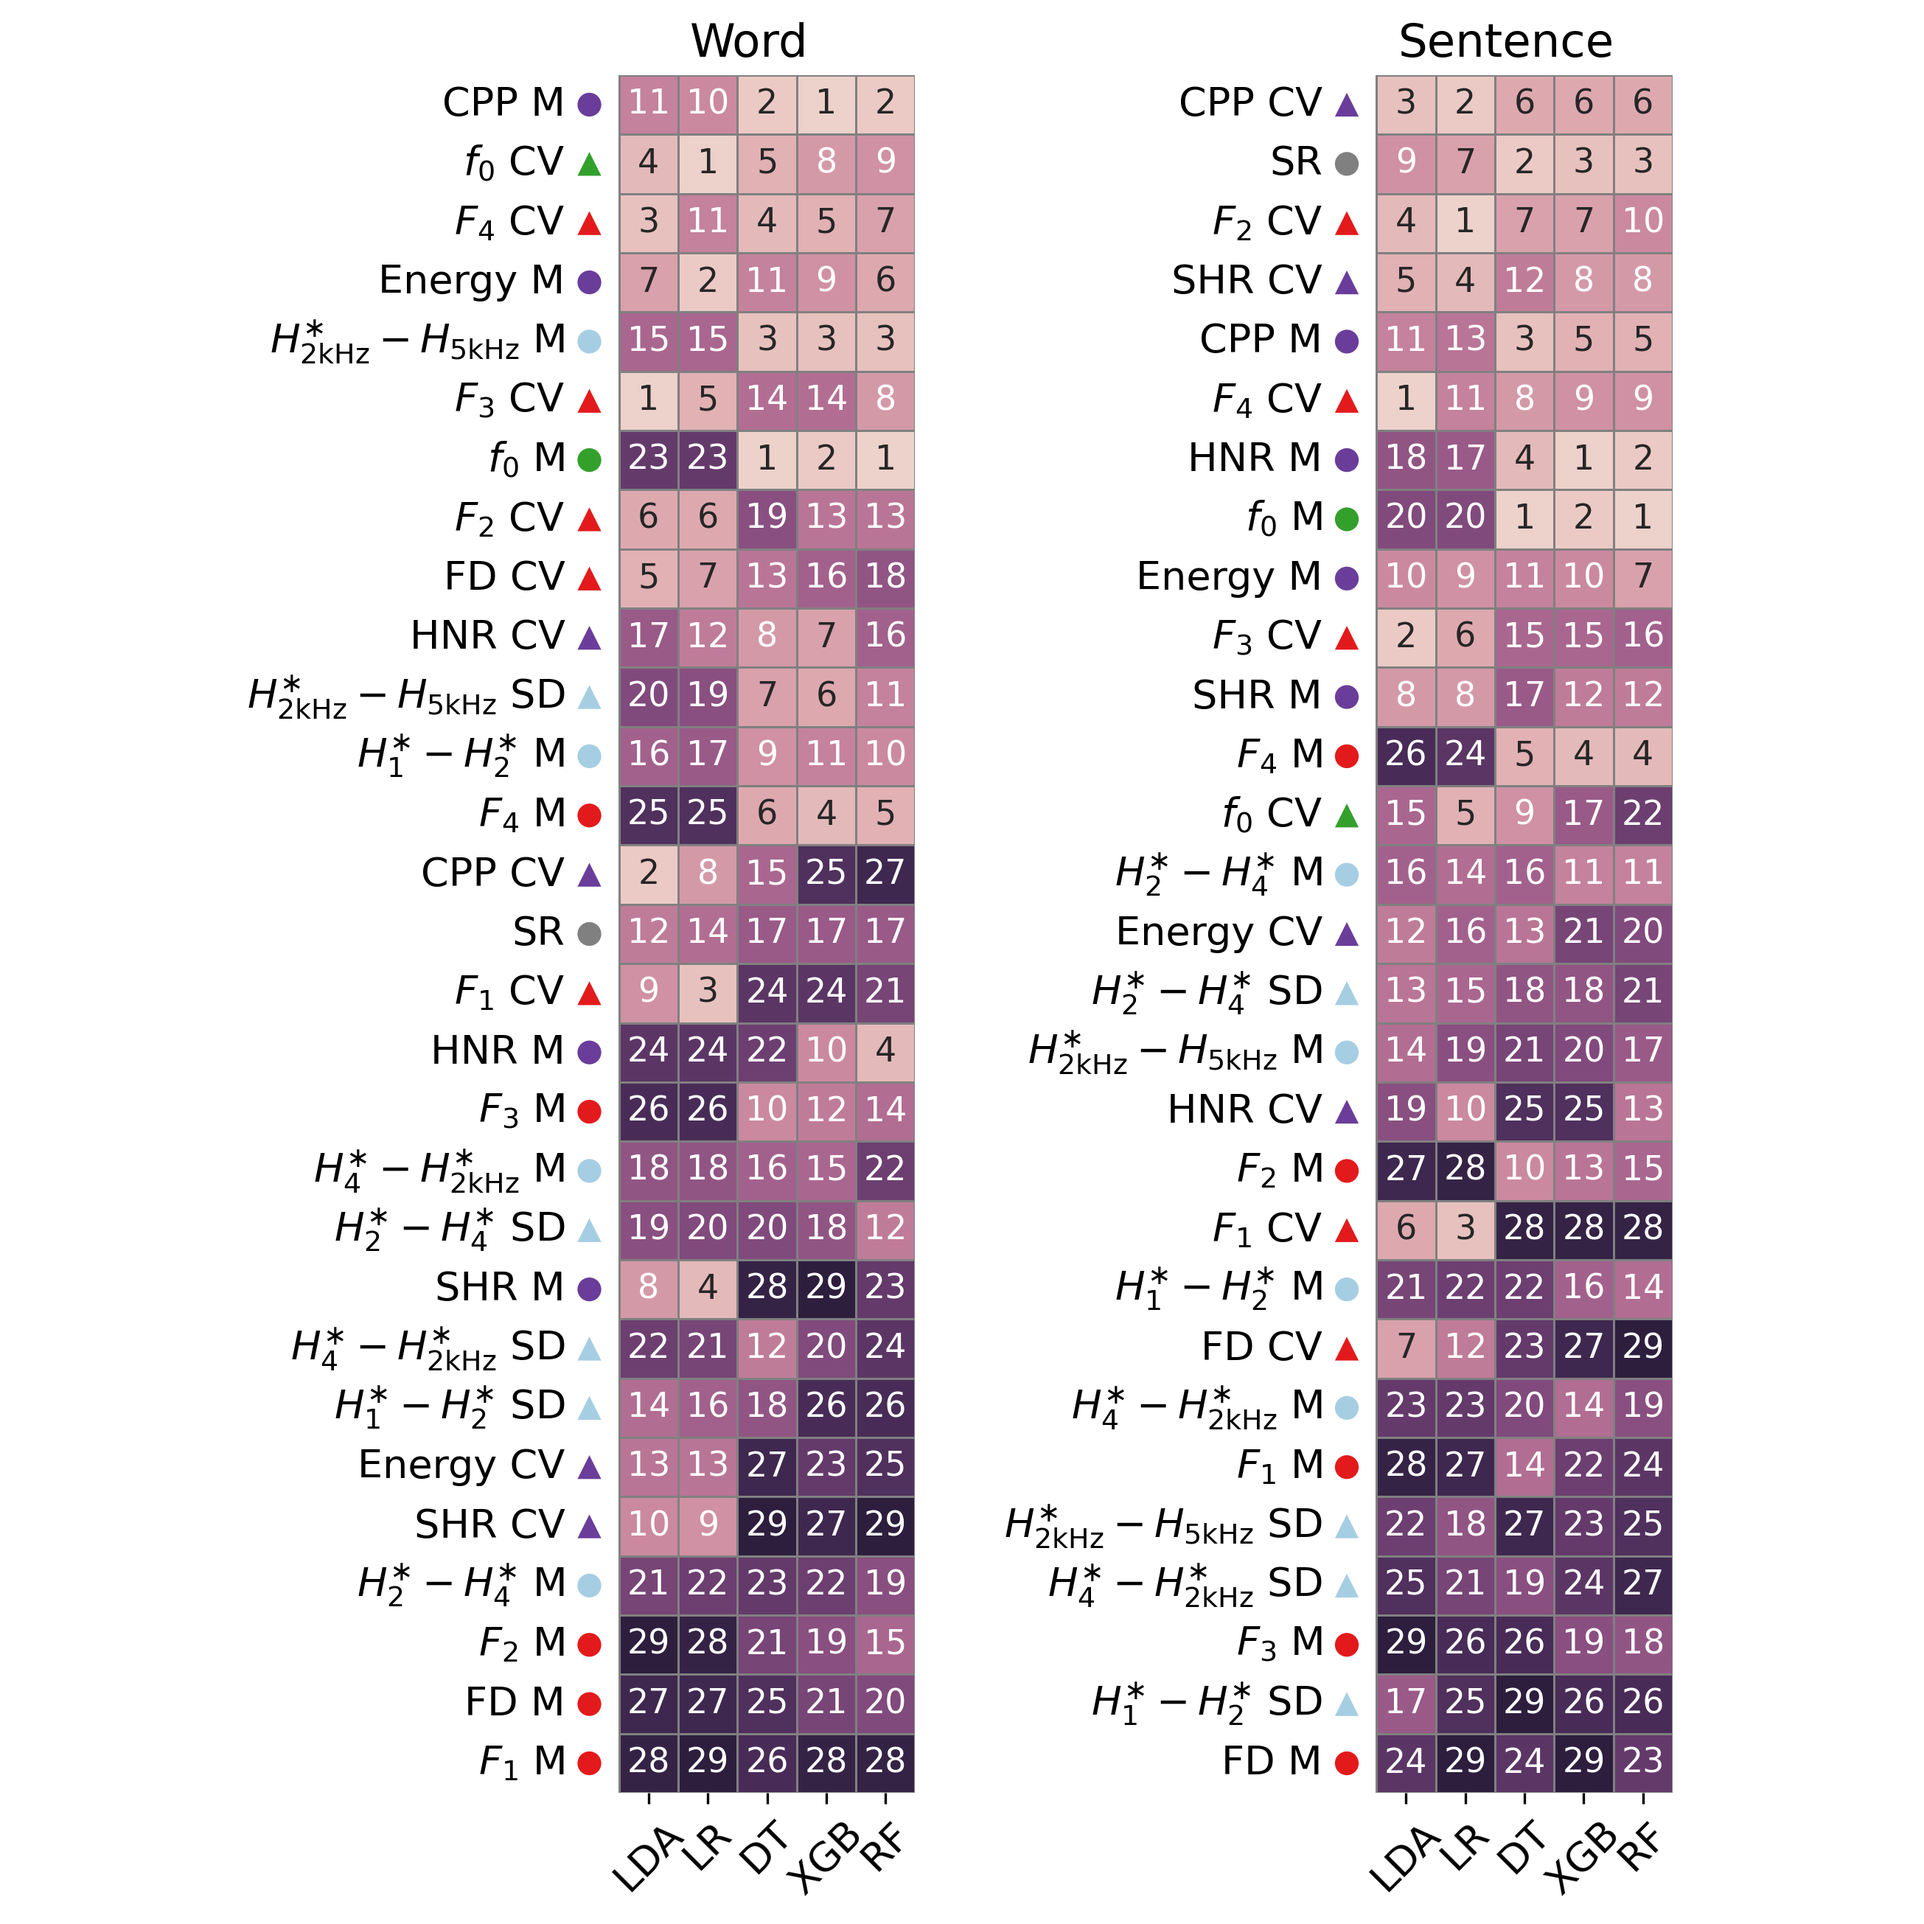
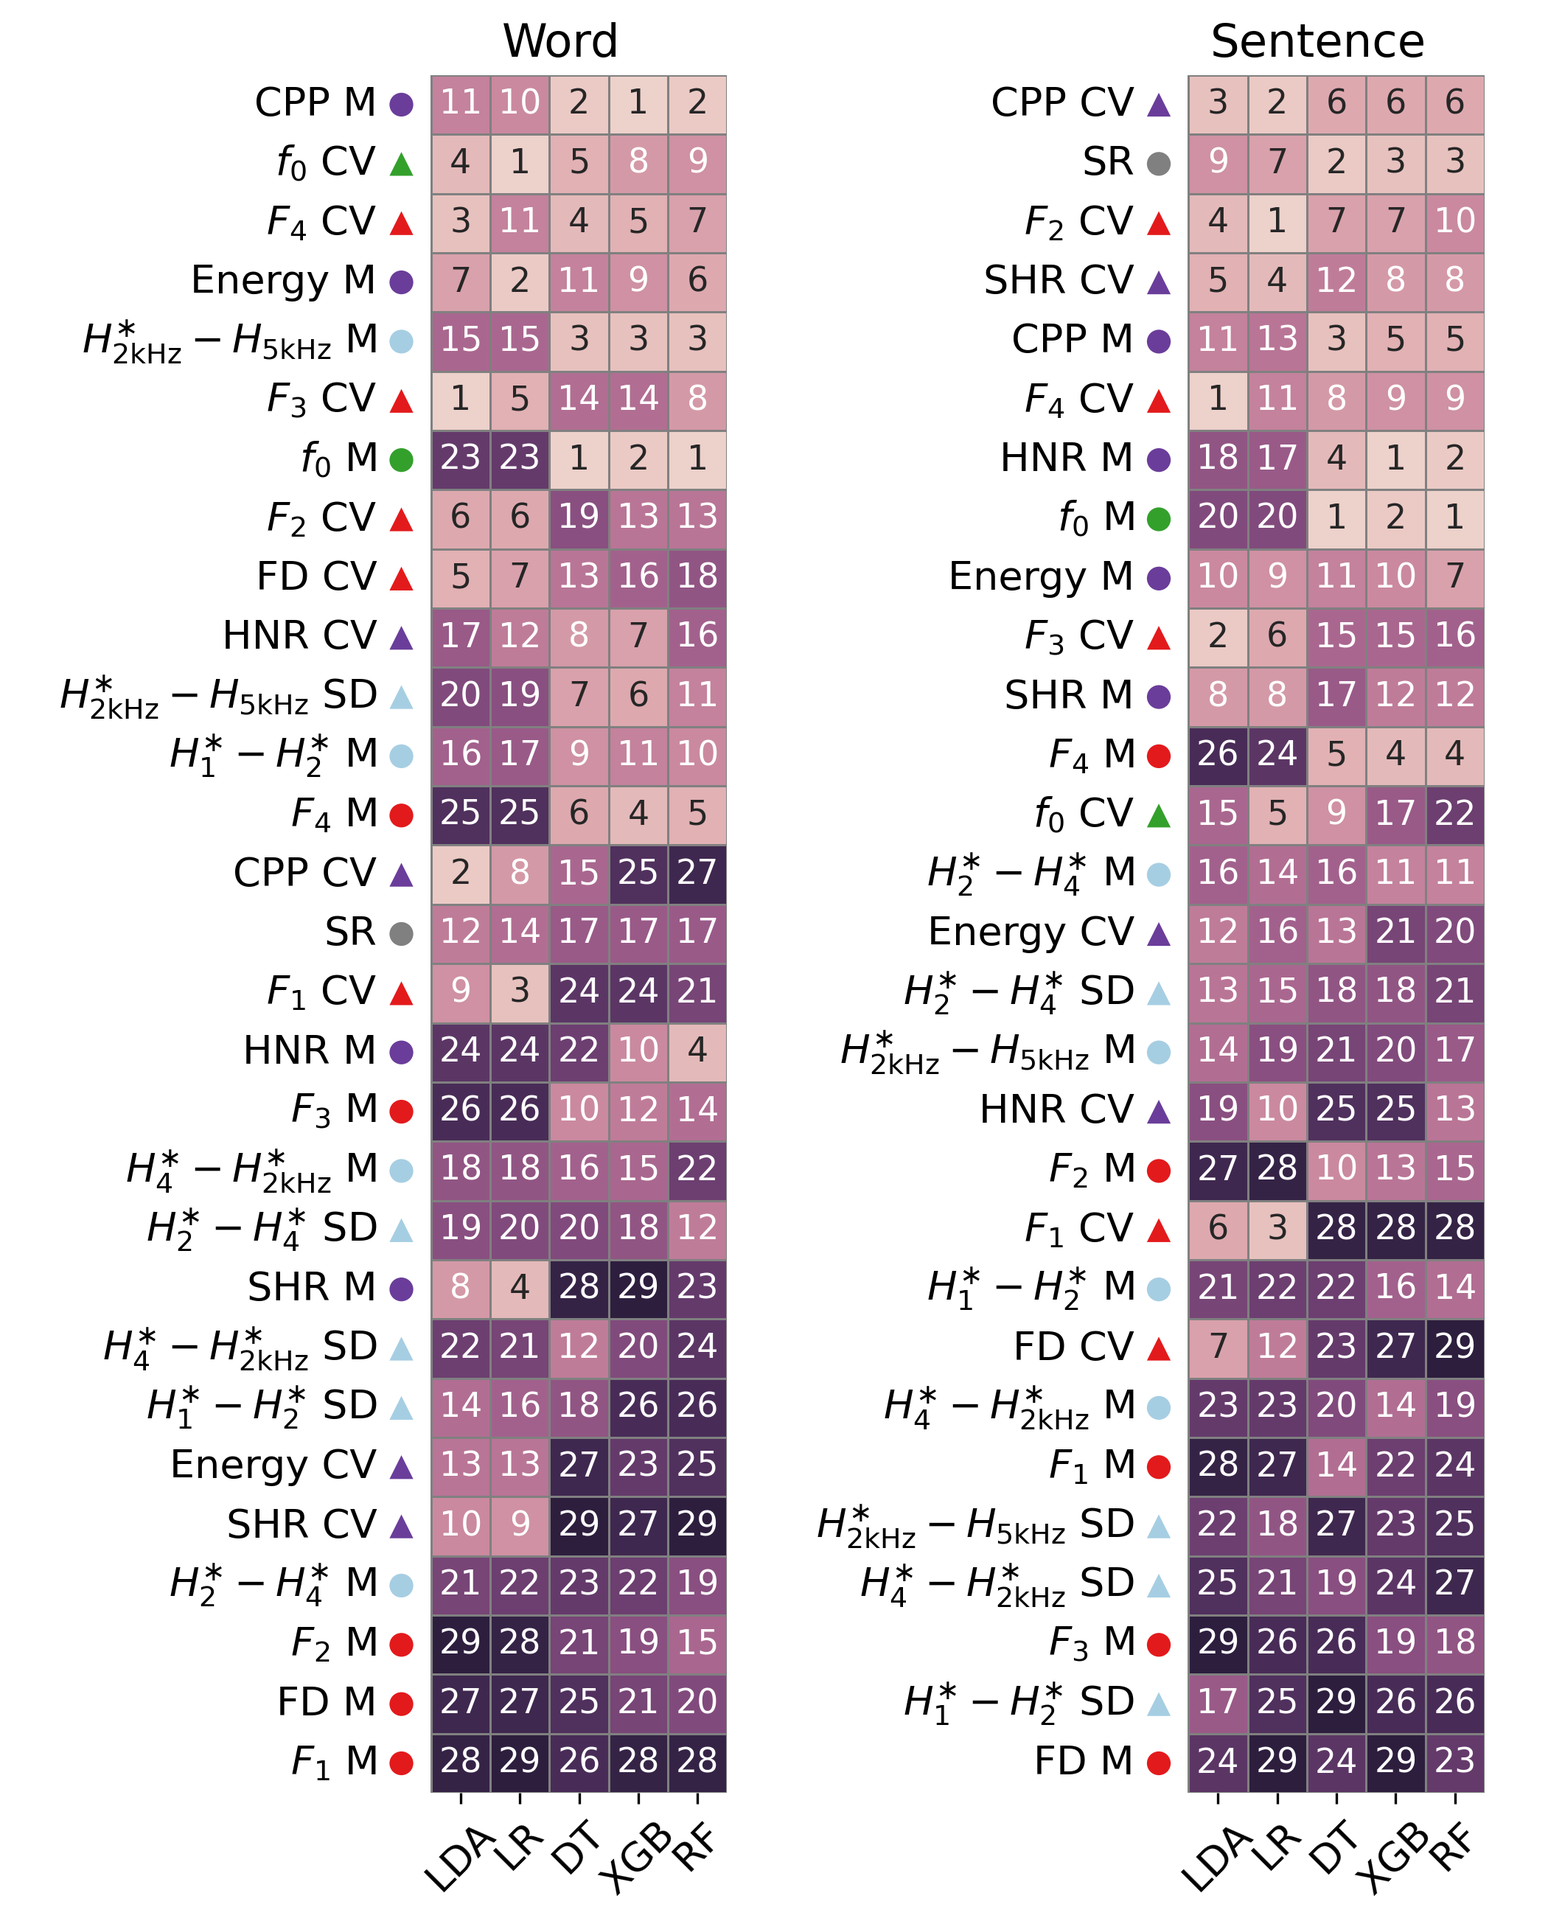
Normalize publication thumbnails

diff --git a/_sass/_base.scss b/_sass/_base.scss
@@ -736,6 +736,10 @@ footer.sticky-bottom {
       margin-bottom: 1rem;
 
       .preview {
+        width: 100%;
+        aspect-ratio: 1 / 1;
+        object-fit: contain;
+        background: #ffffff;
       }
 
       .abbr {
